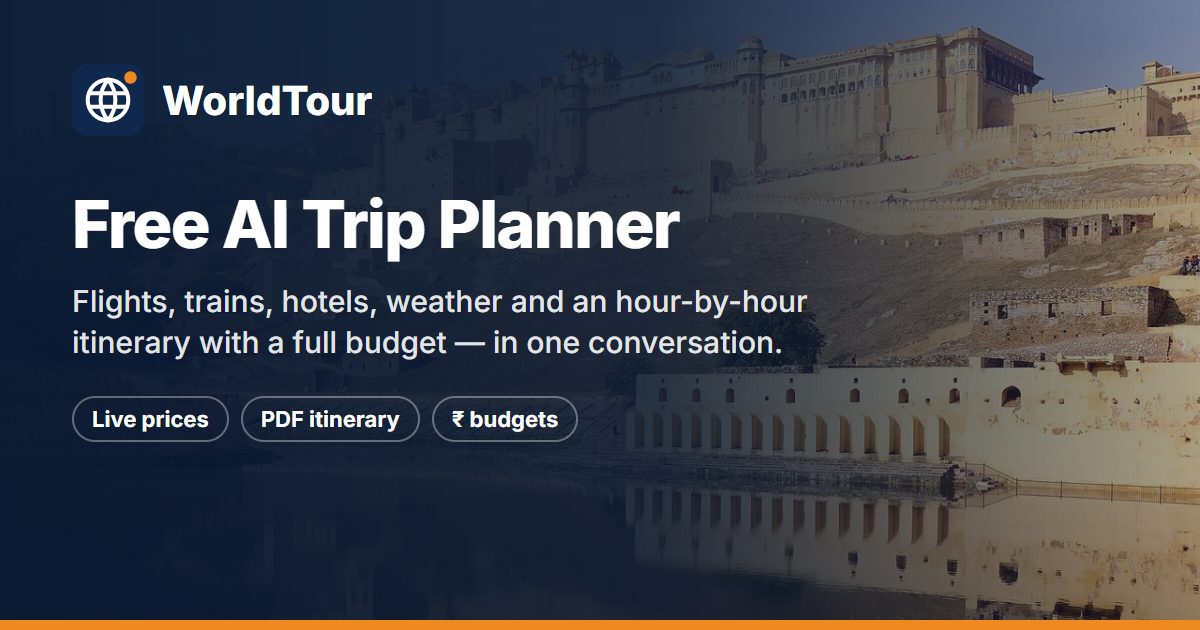
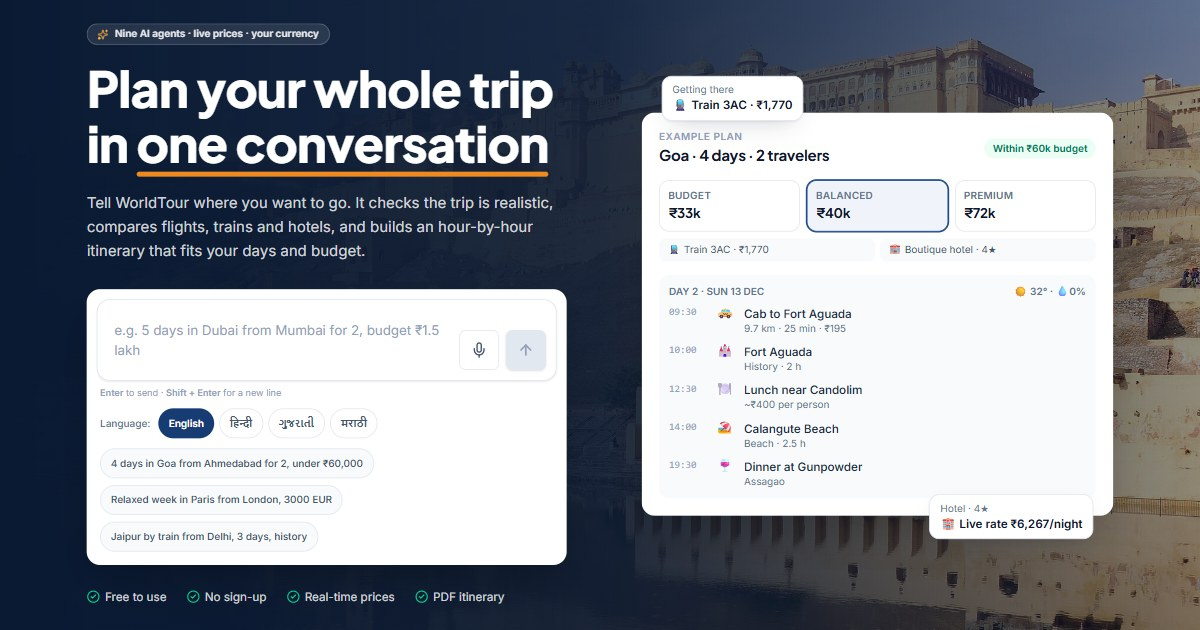
Add a project README; link previews show the current home page
- README.md: what WorldTour does, architecture, agents and algorithms, local
  setup for all three projects, environment variable names (no values),
  Vercel deployment and security notes.
- og-image.jpg is now the live landing page hero (no navbar), 1200x630; the
  meta tags use ?v=2 so WhatsApp, LinkedIn and X fetch the new image.

diff --git a/frontend/index.html b/frontend/index.html
@@ -34,15 +34,15 @@
     <meta property="og:url" content="https://worldtour-xi.vercel.app/" />
     <meta property="og:title" content="WorldTour — Free AI Trip Planner & Itinerary Generator" />
     <meta property="og:description" content="Describe your trip in one message. Get flights, trains, hotels, weather and an hour-by-hour itinerary with a full budget — free." />
-    <meta property="og:image" content="https://worldtour-xi.vercel.app/og-image.jpg" />
+    <meta property="og:image" content="https://worldtour-xi.vercel.app/og-image.jpg?v=2" />
     <meta property="og:image:width" content="1200" />
     <meta property="og:image:height" content="630" />
-    <meta property="og:image:alt" content="WorldTour AI trip planner showing a costed day-by-day itinerary" />
+    <meta property="og:image:alt" content="WorldTour home page: plan your whole trip in one conversation, with an example Goa plan, packages and timetable" />
     <meta property="og:locale" content="en_IN" />
     <meta name="twitter:card" content="summary_large_image" />
     <meta name="twitter:title" content="WorldTour — Free AI Trip Planner & Itinerary Generator" />
     <meta name="twitter:description" content="Flights, trains, hotels, weather and an hour-by-hour itinerary with a full budget, in one conversation." />
-    <meta name="twitter:image" content="https://worldtour-xi.vercel.app/og-image.jpg" />
+    <meta name="twitter:image" content="https://worldtour-xi.vercel.app/og-image.jpg?v=2" />
 
     <script type="application/ld+json">
       {

diff --git a/README.md b/README.md
@@ -1,0 +1,172 @@
+# WorldTour — AI trip planner
+
+![WorldTour home page](frontend/public/og-image.jpg)
+
+Describe a trip in one message — *"goa frm mumbai 4day 2ppl 40k beaches"*, Hinglish works too — and
+WorldTour plans it: flights or trains, hotels, weather, every day hour by hour, three costed packages
+and a budget check. Nine AI agents work on it in parallel; the ranking, budgeting and scheduling are
+done by real algorithms, not guessed by a language model.
+
+**Live:** [worldtour-xi.vercel.app](https://worldtour-xi.vercel.app) · free, no sign-up needed to plan.
+
+---
+
+## What it does
+
+**Planning**
+- One-message chat that understands messy text, Hinglish and Indian number words (lakh, 40k); it only
+  asks for what is really missing. Chat in English, हिन्दी, ગુજરાતી or मराठी, by voice or text, and
+  have replies read aloud.
+- Multi-city trips, day trips to sights 35–75 km away, rain and heat-aware days, flexible dates.
+- Budget / Balanced / Premium packages that switch instantly, with live Google Flights fares and
+  hotel rates when available.
+- Day-by-day timetable with a map, cost breakdown with charts, booking links, a printable PDF travel
+  document, and *Add to calendar* (Google, Outlook or an `.ics` file with every stop).
+
+**Accounts** (optional — guests can plan freely)
+- Sign up with email + password or Google (Clerk), profile photo (Cloudinary), and three quick
+  questions after sign-up (interests, who you travel with, travel style) that become planning defaults.
+- Every prompt and every itinerary version saved automatically; My trips with search, favourites,
+  archive and rename; read-only share links; profile with stats, activity and achievements; settings
+  with home city, currency, language, theme and a data download.
+
+**Admin dashboard** (`/admin`, behind a code)
+- Overview, every user's details and trips, full conversations and itinerary versions, account
+  deletion, and an **API keys** screen: add spare keys for SerpAPI, OpenRouter, Geoapify or
+  Aviationstack and the planner switches to the next working key by itself when one runs out.
+- 5-minute sessions that lock themselves; 5 wrong codes lock the screen for 15 minutes.
+
+---
+
+## How it fits together
+
+```
+                         ┌──────────────── Clerk (sign-in, email codes, Google)
+Browser ── frontend/ ────┤
+  React SPA (Vercel)     ├── ai/      FastAPI + LangGraph planner (Vercel, Python)
+                         │      └─ SerpAPI · OpenRouter · Geoapify · Wikipedia · Open-Meteo
+                         │         OSRM · Frankfurter · MyMemory · Aviationstack
+                         └── server/  Express accounts API (Vercel, Node)
+                                └─ MongoDB Atlas · Cloudinary · Clerk webhooks
+                                └─ /api/internal/keys ──► spare API keys for ai/
+```
+
+| Folder | What it is | Stack |
+|---|---|---|
+| [`ai/`](ai/README.md) | The planner: chat intake, nine agents in a LangGraph workflow, providers with fallbacks, structured agent logs | Python 3.11+, FastAPI, LangGraph, LangChain tools, httpx |
+| [`frontend/`](frontend/README.md) | The website | React 19, TypeScript, Vite, Tailwind CSS 4, Zustand, React Router, Clerk, Leaflet, Recharts |
+| [`server/`](server/README.md) | Accounts, saved trips, sharing, stats, admin API | Node, Express 5, Mongoose, Zod, Clerk, Cloudinary |
+
+### The planner in short
+
+```
+message ─► parser (+ geocoder for unlisted towns, AI reading only when needed)
+        ─► feasibility check ─► Coordinator
+        ─► Flight · Hotel · Weather · Recommendation · Route · Transport   (in parallel, only those needed)
+        ─► Budget (0/1 knapsack) ─► Itinerary (nearest-neighbour + interval scheduling) ─► final plan
+```
+
+| Agent | Algorithms |
+|---|---|
+| Flight | priority queue, weighted scoring |
+| Hotel | heap / Top-K |
+| Budget | 0/1 knapsack (dynamic programming) |
+| Route | Dijkstra and A* (Haversine heuristic) |
+| Itinerary | nearest neighbour, greedy interval scheduling |
+| Recommendation | BFS, DFS, Top-K over Geoapify + Wikipedia landmarks |
+| Weather | forecast or seasonal history, conflict checks |
+
+Every agent run and outside API call is logged as one JSON line with a `run_id`
+(`ai/src/worldtour_ai/utils/agent_logs.py`); `python scripts/agent_report.py` summarises failures,
+slow calls and fallbacks.
+
+---
+
+## Run it locally
+
+Requirements: **Python 3.11+**, **Node 20+**, and free accounts for the services you want live
+(the planner falls back gracefully when a key is missing).
+
+```bash
+# 1. Planner API  →  http://127.0.0.1:8000
+cd ai
+python -m venv venv
+venv\Scripts\activate            # macOS/Linux: source venv/bin/activate
+pip install -r requirements.txt
+copy .env.example .env           # then fill in the keys you have
+python scripts/serve.py
+
+# 2. Accounts server  →  http://localhost:5000/api/health   (optional)
+cd server
+npm install
+copy .env.example .env           # MongoDB, Clerk, Cloudinary, ADMIN_CODE ...
+npm run dev
+
+# 3. Website  →  http://localhost:5173   (proxies /api to the planner)
+cd frontend
+npm install
+copy .env.example .env           # VITE_SERVER_URL / VITE_CLERK_PUBLISHABLE_KEY for accounts
+npm run dev
+```
+
+Without the accounts server and Clerk key the site runs in guest mode: planning works, sign-in is hidden.
+
+**Checks**
+
+```bash
+cd server   && npm test                 # 20 API tests on an in-memory MongoDB
+cd frontend && npm run lint && npm run build
+cd ai       && python scripts/check_providers.py   # which data sources are live
+```
+
+---
+
+## Configuration
+
+Each folder has its own `.env.example`. Only variable **names** are listed here — keep the values
+private (they live in `.env` files, which git ignores, and in Vercel → Settings → Environment Variables).
+
+| Project | Variables |
+|---|---|
+| `ai/` | `SERPAPI_API_KEY`, `OPENROUTER_API_KEY`, `GEOAPIFY_API_KEY`, `AVIATIONSTACK_API_KEY`, `MYMEMORY_EMAIL`, `ALLOWED_ORIGINS`, `INTERNAL_API_SECRET`, `ACCOUNTS_SERVER_URL`; optional `ACCESS_CODE`, `UPSTASH_REDIS_REST_URL` / `UPSTASH_REDIS_REST_TOKEN` + `PLANS_PER_DAY`, `AGENT_LOG_FILE`, `AGENT_LOG_DIR` |
+| `server/` | `MONGODB_URI`, `CLERK_PUBLISHABLE_KEY`, `CLERK_SECRET_KEY`, `CLERK_WEBHOOK_SIGNING_SECRET`, `CLOUDINARY_CLOUD_NAME`, `CLOUDINARY_API_KEY`, `CLOUDINARY_API_SECRET`, `CLOUDINARY_FOLDER`, `ALLOWED_ORIGINS`, `APP_URL`, `ADMIN_CODE`, `INTERNAL_API_SECRET`; optional `KEY_ENCRYPTION_SECRET`, `AI_URL` |
+| `frontend/` | `VITE_API_URL`, `VITE_SERVER_URL`, `VITE_CLERK_PUBLISHABLE_KEY` (all public by design — never put secret keys here) |
+
+`INTERNAL_API_SECRET` must be the **same** long random value in `ai/` and `server/`: it lets the planner
+read the spare API keys added in the admin dashboard. Spare keys are stored encrypted (AES-256-GCM).
+
+---
+
+## Deploy (Vercel)
+
+Three Vercel projects from this one repository, each with its **Root Directory** set to its folder:
+
+| Project | Root directory | Notes |
+|---|---|---|
+| Planner | `ai` | Python runtime; `vercel.json` allows 300 s for planning |
+| Accounts server | `server` | Node runtime; add the Clerk webhook `https://<server>/api/webhooks/clerk` |
+| Website | `frontend` | Vite preset; `vercel.json` rewrites every route to the app |
+
+Pushing to `main` redeploys all three. After changing environment variables, redeploy that project.
+Step-by-step guides for MongoDB Atlas, Clerk and Cloudinary are in [`server/README.md`](server/README.md).
+
+---
+
+## Security notes
+
+- Passwords are handled only by Clerk (hashed; never seen or stored by WorldTour).
+- All secrets stay on the servers; the browser bundle holds only public values.
+- The admin code is checked by the server, never shipped to the browser; sessions are signed, last
+  5 minutes and wrong codes are rate-limited.
+- API keys never appear in logs: URLs lose their query string and key-like values are masked.
+- Shared trip links show the itinerary only — no conversation, notes or account details.
+
+---
+
+## Project layout
+
+```
+ai/         planner API, agents, providers, algorithms, scripts (serve, report, inspect)
+frontend/   website: src/components (chat, plan views), src/pages (accounts, admin), public/ (SEO, images)
+server/     accounts API: src/routes, src/models, src/lib, test/
+```

diff --git a/server/README.md b/server/README.md
@@ -20,7 +20,7 @@ cd server
 npm install
 # fill in server/.env (see .env.example)
 npm run dev          # http://localhost:5000/api/health
-npm test             # 14 API tests on a temporary in-memory MongoDB
+npm test             # 20 API tests on a temporary in-memory MongoDB
 ```
 
 For the website to use it locally, set in `frontend/.env`:
